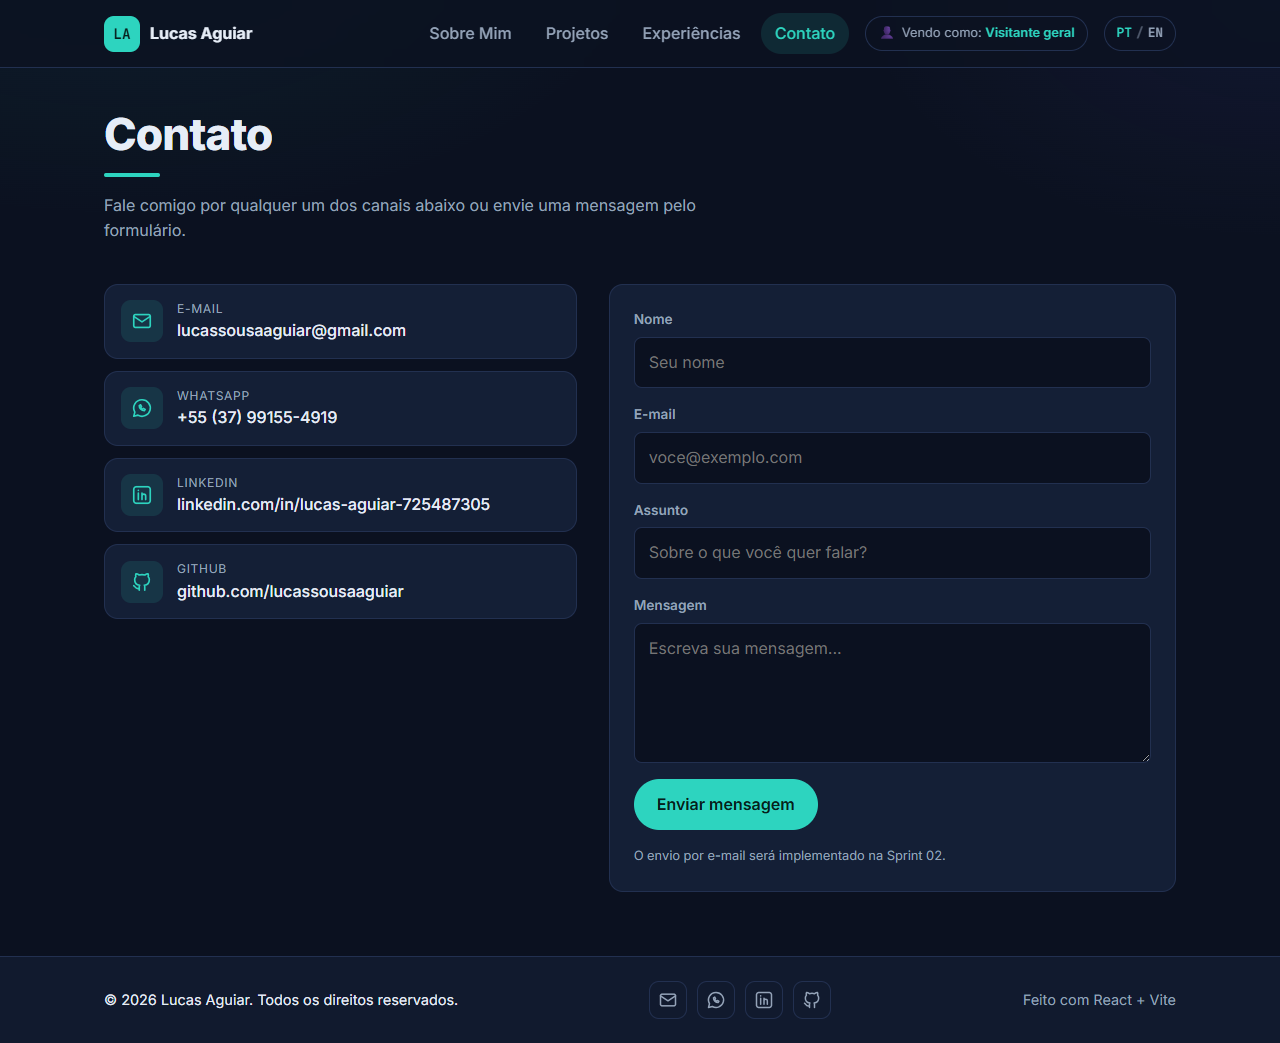
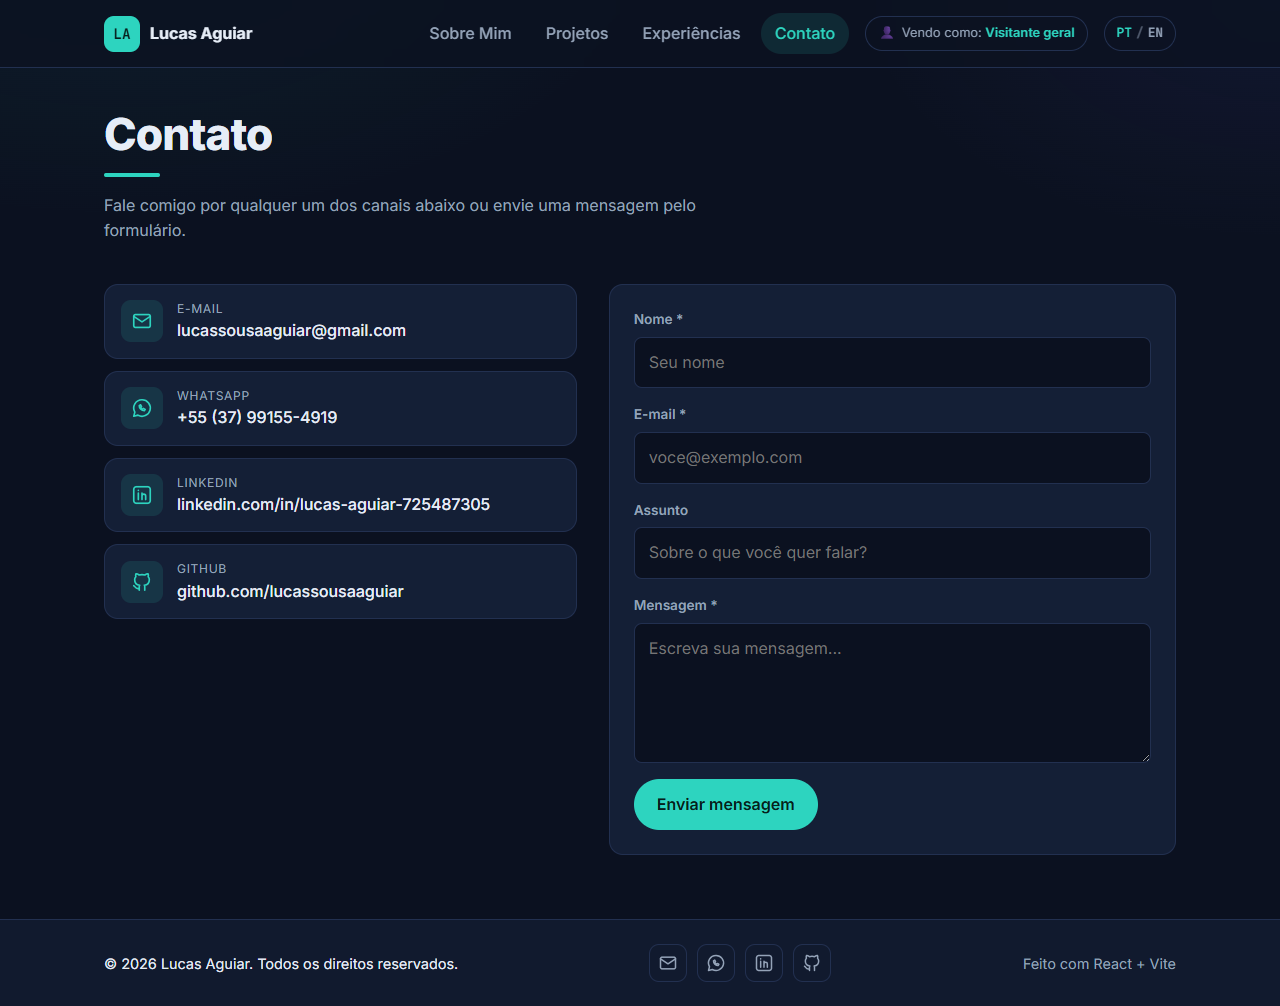
S02: formulário de contato funcional com Web3Forms
- Envio client-side (POST JSON) com estados de envio/sucesso/erro em PT/EN
- Validações: obrigatórios, e-mail válido, mensagem mínima; foco no 1º erro
- Honeypot anti-spam; chave em .env.local (fora do Git) com .env.example
- README: S02 concluída, instruções da variável VITE_WEB3FORMS_KEY

diff --git a/src/pages/Contact.tsx b/src/pages/Contact.tsx
@@ -1,4 +1,4 @@
-import type { FormEvent } from 'react'
+import { useState, type FormEvent } from 'react'
 import PageHeader from '../components/PageHeader'
 import { GitHubIcon, LinkedInIcon, MailIcon, WhatsAppIcon } from '../components/Icons'
 import { contacts } from '../data/contacts'
@@ -7,19 +7,88 @@ import { useProfile } from '../i18n/ProfileContext'
 
 const icons = { email: MailIcon, whatsapp: WhatsAppIcon, linkedin: LinkedInIcon, github: GitHubIcon }
 
+const WEB3FORMS_ENDPOINT = 'https://api.web3forms.com/submit'
+const ACCESS_KEY = import.meta.env.VITE_WEB3FORMS_KEY
+
+type Status = 'idle' | 'sending' | 'success' | 'error'
+type FieldErrors = { name?: string; email?: string; message?: string }
+
+const EMAIL_RE = /^[^\s@]+@[^\s@]+\.[^\s@]+$/
+
 export default function Contact() {
   const { t, lang } = useLanguage()
   const { profile } = useProfile()
+  const [status, setStatus] = useState<Status>('idle')
+  const [errors, setErrors] = useState<FieldErrors>({})
 
   // RF09 — canais reordenados por relevância para o perfil (todos continuam visíveis)
   const ordered = [...contacts].sort(
     (a, b) => profile.contactOrder.indexOf(a.id) - profile.contactOrder.indexOf(b.id),
   )
-  const subject = profile.contactSubject[lang]
+  const suggestedSubject = profile.contactSubject[lang]
 
-  // Sprint 02: integrar envio de e-mail (ex.: EmailJS / Formspree / função serverless).
-  const handleSubmit = (e: FormEvent<HTMLFormElement>) => {
+  const validate = (data: FormData): FieldErrors => {
+    const errs: FieldErrors = {}
+    const name = String(data.get('name') ?? '').trim()
+    const email = String(data.get('email') ?? '').trim()
+    const message = String(data.get('message') ?? '').trim()
+    if (!name) errs.name = t.contact.required
+    if (!email) errs.email = t.contact.required
+    else if (!EMAIL_RE.test(email)) errs.email = t.contact.emailInvalid
+    if (!message) errs.message = t.contact.required
+    else if (message.length < 10) errs.message = t.contact.messageMin
+    return errs
+  }
+
+  const clearError = (field: keyof FieldErrors) =>
+    setErrors((prev) => (prev[field] ? { ...prev, [field]: undefined } : prev))
+
+  const handleSubmit = async (e: FormEvent<HTMLFormElement>) => {
     e.preventDefault()
+    const form = e.currentTarget
+    const data = new FormData(form)
+
+    // Honeypot anti-spam: humanos não veem/preenchem este campo
+    if (data.get('botcheck')) return
+
+    const errs = validate(data)
+    setErrors(errs)
+    if (Object.keys(errs).length > 0) {
+      const first = ['name', 'email', 'message'].find((f) => errs[f as keyof FieldErrors])
+      if (first) (form.elements.namedItem(first) as HTMLElement | null)?.focus()
+      return
+    }
+
+    if (!ACCESS_KEY) {
+      console.warn('VITE_WEB3FORMS_KEY não configurada (.env.local)')
+      setStatus('error')
+      return
+    }
+
+    setStatus('sending')
+    try {
+      const res = await fetch(WEB3FORMS_ENDPOINT, {
+        method: 'POST',
+        headers: { 'Content-Type': 'application/json', Accept: 'application/json' },
+        body: JSON.stringify({
+          access_key: ACCESS_KEY,
+          from_name: 'Portfólio — Lucas Aguiar',
+          name: String(data.get('name')).trim(),
+          email: String(data.get('email')).trim(),
+          subject: String(data.get('subject') ?? '').trim() || 'Contato pelo portfólio',
+          message: String(data.get('message')).trim(),
+        }),
+      })
+      const json = await res.json()
+      if (res.ok && json.success) {
+        setStatus('success')
+        form.reset()
+      } else {
+        setStatus('error')
+      }
+    } catch {
+      setStatus('error')
+    }
   }
 
   return (
@@ -54,36 +123,90 @@ export default function Contact() {
           })}
         </div>
 
-        <form className="card form" onSubmit={handleSubmit} noValidate>
-          <div className="form__field">
-            <label htmlFor="name">{t.contact.name}</label>
-            <input id="name" name="name" type="text" placeholder={t.contact.namePlaceholder} required />
+        {status === 'success' ? (
+          <div className="card form-status" role="status">
+            <span className="form-status__icon" aria-hidden="true">
+              ✓
+            </span>
+            <h2 className="form-status__title">{t.contact.successTitle}</h2>
+            <p className="form-status__text">{t.contact.successText}</p>
+            <button type="button" className="btn btn--ghost" onClick={() => setStatus('idle')}>
+              {t.contact.sendAnother}
+            </button>
           </div>
-          <div className="form__field">
-            <label htmlFor="email">{t.contact.email}</label>
-            <input id="email" name="email" type="email" placeholder={t.contact.emailPlaceholder} required />
-          </div>
-          <div className="form__field">
-            <label htmlFor="subject">{t.profile.subject}</label>
-            {/* Decisão 5(a): assunto sugerido pelo perfil, editável. `key` reinicia o valor ao trocar perfil/idioma. */}
-            <input
-              key={`${profile.id}-${lang}`}
-              id="subject"
-              name="subject"
-              type="text"
-              defaultValue={subject}
-              placeholder={t.profile.subjectPlaceholder}
-            />
-          </div>
-          <div className="form__field">
-            <label htmlFor="message">{t.contact.message}</label>
-            <textarea id="message" name="message" placeholder={t.contact.messagePlaceholder} required />
-          </div>
-          <button type="submit" className="btn btn--primary" style={{ justifySelf: 'start' }}>
-            {t.contact.send}
-          </button>
-          <p className="form__note">{t.contact.note}</p>
-        </form>
+        ) : (
+          <form className="card form" onSubmit={handleSubmit} noValidate>
+            <input type="checkbox" name="botcheck" className="form__botcheck" tabIndex={-1} aria-hidden="true" />
+
+            <div className="form__field">
+              <label htmlFor="name">{t.contact.name} *</label>
+              <input
+                id="name"
+                name="name"
+                type="text"
+                placeholder={t.contact.namePlaceholder}
+                className={errors.name ? 'invalid' : ''}
+                aria-invalid={!!errors.name}
+                onInput={() => clearError('name')}
+              />
+              {errors.name && <p className="form__error">{errors.name}</p>}
+            </div>
+
+            <div className="form__field">
+              <label htmlFor="email">{t.contact.email} *</label>
+              <input
+                id="email"
+                name="email"
+                type="email"
+                placeholder={t.contact.emailPlaceholder}
+                className={errors.email ? 'invalid' : ''}
+                aria-invalid={!!errors.email}
+                onInput={() => clearError('email')}
+              />
+              {errors.email && <p className="form__error">{errors.email}</p>}
+            </div>
+
+            <div className="form__field">
+              <label htmlFor="subject">{t.profile.subject}</label>
+              {/* Decisão 5(a): assunto sugerido pelo perfil, editável. `key` reinicia o valor ao trocar perfil/idioma. */}
+              <input
+                key={`${profile.id}-${lang}`}
+                id="subject"
+                name="subject"
+                type="text"
+                defaultValue={suggestedSubject}
+                placeholder={t.profile.subjectPlaceholder}
+              />
+            </div>
+
+            <div className="form__field">
+              <label htmlFor="message">{t.contact.message} *</label>
+              <textarea
+                id="message"
+                name="message"
+                placeholder={t.contact.messagePlaceholder}
+                className={errors.message ? 'invalid' : ''}
+                aria-invalid={!!errors.message}
+                onInput={() => clearError('message')}
+              />
+              {errors.message && <p className="form__error">{errors.message}</p>}
+            </div>
+
+            <button
+              type="submit"
+              className="btn btn--primary"
+              style={{ justifySelf: 'start' }}
+              disabled={status === 'sending'}
+            >
+              {status === 'sending' ? t.contact.sending : t.contact.send}
+            </button>
+            {status === 'error' && (
+              <p className="form__error form__error--global" role="alert">
+                {t.contact.errorText}
+              </p>
+            )}
+          </form>
+        )}
       </div>
     </div>
   )

diff --git a/src/i18n/translations.ts b/src/i18n/translations.ts
@@ -59,7 +59,14 @@ export const translations = {
       namePlaceholder: 'Seu nome',
       emailPlaceholder: 'voce@exemplo.com',
       messagePlaceholder: 'Escreva sua mensagem...',
-      note: 'O envio por e-mail será implementado na Sprint 02.',
+      required: 'Campo obrigatório.',
+      emailInvalid: 'Informe um e-mail válido.',
+      messageMin: 'A mensagem deve ter pelo menos 10 caracteres.',
+      sending: 'Enviando...',
+      successTitle: 'Mensagem enviada!',
+      successText: 'Obrigado pelo contato — respondo em breve no e-mail informado.',
+      sendAnother: 'Enviar outra mensagem',
+      errorText: 'Não foi possível enviar agora. Tente de novo em instantes ou me chame direto pelo e-mail ao lado.',
     },
   },
   en: {
@@ -120,7 +127,14 @@ export const translations = {
       namePlaceholder: 'Your name',
       emailPlaceholder: 'you@example.com',
       messagePlaceholder: 'Write your message...',
-      note: 'E-mail sending will be implemented in Sprint 02.',
+      required: 'This field is required.',
+      emailInvalid: 'Enter a valid e-mail address.',
+      messageMin: 'The message must be at least 10 characters long.',
+      sending: 'Sending...',
+      successTitle: 'Message sent!',
+      successText: "Thanks for reaching out — I'll reply soon to the e-mail you provided.",
+      sendAnother: 'Send another message',
+      errorText: "Couldn't send right now. Try again in a moment or reach me directly via the e-mail on the side.",
     },
   },
 } as const

diff --git a/src/styles/global.css b/src/styles/global.css
@@ -1011,3 +1011,65 @@ h3 {
     text-align: center;
   }
 }
+
+/* ===== Formulário de contato: validação e status ===== */
+.form__botcheck {
+  display: none;
+}
+
+.form__field input.invalid,
+.form__field textarea.invalid {
+  border-color: var(--danger);
+}
+
+.form__field input.invalid:focus,
+.form__field textarea.invalid:focus {
+  border-color: var(--danger);
+  box-shadow: 0 0 0 3px rgba(248, 113, 113, 0.15);
+}
+
+.form__error {
+  margin: 0;
+  color: var(--danger);
+  font-size: 0.8rem;
+}
+
+.form__error--global {
+  font-size: 0.9rem;
+}
+
+.btn[disabled] {
+  opacity: 0.6;
+  cursor: default;
+  transform: none;
+}
+
+.form-status {
+  display: grid;
+  justify-items: center;
+  gap: 12px;
+  text-align: center;
+  padding: 48px 32px;
+}
+
+.form-status__icon {
+  display: grid;
+  place-items: center;
+  width: 56px;
+  height: 56px;
+  border-radius: 50%;
+  background: var(--accent);
+  color: #06201d;
+  font-size: 1.6rem;
+  font-weight: 700;
+}
+
+.form-status__title {
+  font-size: 1.4rem;
+}
+
+.form-status__text {
+  margin: 0;
+  color: var(--text-muted);
+  max-width: 40ch;
+}

diff --git a/src/vite-env.d.ts b/src/vite-env.d.ts
@@ -1,0 +1,10 @@
+/// <reference types="vite/client" />
+
+interface ImportMetaEnv {
+  /** Chave de acesso do Web3Forms (formulário de contato). Definida em .env.local */
+  readonly VITE_WEB3FORMS_KEY?: string
+}
+
+interface ImportMeta {
+  readonly env: ImportMetaEnv
+}

diff --git a/README.md b/README.md
@@ -49,12 +49,12 @@ Requisitos transversais: design responsivo, interface amigável, identidade visu
 - [x] Navegação entre as seções (React Router) e layout principal (cabeçalho, rodapé e área de conteúdo)
 - [x] README com imagens dos protótipos, descrição, tecnologias previstas e estrutura inicial
 
-### 🔄 Lab01S02 — Funcionalidades principais (em andamento)
-- [ ] Página "Sobre Mim" com versões PT/EN (base já implementada: troca de idioma global)
-- [ ] Página "Projetos" com timeline dinâmica (dados em `src/data/projects.ts`)
-- [ ] Página "Experiências" com dados organizados
-- [ ] Página "Contato" com ícones e formulário funcional (envio de e-mail)
-- [ ] Validações básicas e responsividade
+### ✅ Lab01S02 — Funcionalidades principais
+- [x] Página "Sobre Mim" com versões PT/EN (troca de idioma global, persistida no navegador)
+- [x] Página "Projetos" com timeline dinâmica (dados em `src/data/projects.ts`, ordenados por data)
+- [x] Página "Experiências" com dados organizados
+- [x] Página "Contato" com ícones e formulário funcional (envio de e-mail via Web3Forms)
+- [x] Validações básicas (obrigatórios, e-mail válido, tamanho mínimo, mensagens em PT/EN) e responsividade
 - **Nova tarefa — Perfis de acesso** (o visitante escolhe quem é — recrutador, professor, desenvolvedor — e o portfólio muda o *destaque* das informações, sem login e sem esconder conteúdo):
   - [x] Levantamento de requisitos e casos de uso → [`docs/requisitos/perfis-de-acesso.md`](docs/requisitos/perfis-de-acesso.md)
   - [x] Wireframe da página de seleção de perfil → [`docs/wireframes/profile-desktop.png`](docs/wireframes/profile-desktop.png)
@@ -79,7 +79,7 @@ Requisitos transversais: design responsivo, interface amigável, identidade visu
 | Perfis de acesso | Context API própria (`ProfileContext`) + dados declarativos | Destaques por perfil, persistidos em `localStorage`, sem back-end |
 | Fontes | Google Fonts (Inter, JetBrains Mono) | Identidade visual |
 | Lint | **oxlint** | Qualidade de código |
-| Envio de e-mail (previsto) | **EmailJS** ou **Formspree** | Formulário de contato sem back-end próprio |
+| Envio de e-mail | **Web3Forms** | Formulário de contato sem back-end próprio (POST client-side, honeypot anti-spam) |
 | Hospedagem (prevista) | **Vercel** | Deploy contínuo a partir do GitHub, com preview por branch |
 
 ## Dependências
@@ -208,9 +208,15 @@ cd portfolio
 # 2. Instalar as dependências
 npm install
 
-# 3. Rodar em modo de desenvolvimento (http://localhost:5173)
+# 3. Configurar o envio do formulário de contato (opcional para navegar)
+#    Copie .env.example para .env.local e informe sua chave do Web3Forms
+cp .env.example .env.local
+
+# 4. Rodar em modo de desenvolvimento (http://localhost:5173)
 npm run dev
 ```
+
+> Sem a variável `VITE_WEB3FORMS_KEY`, o site funciona normalmente — apenas o envio do formulário fica indisponível. No deploy (Vercel), a mesma variável é configurada no painel do projeto.
 
 Outros comandos:
 
@@ -228,4 +234,4 @@ npm run docs:pdf     # gera docs/requisitos/perfis-de-acesso.pdf a partir do mar
 - **Conteúdo separado do código** (`src/data/`): adicionar um projeto ou experiência é editar um objeto — a timeline ordena automaticamente pela data.
 - **i18n própria via Context**: o requisito é apenas PT/EN, então um contexto simples com dicionário tipado evita uma dependência extra; a escolha fica salva no navegador.
 - **CSS puro com design tokens**: tema escuro com acento turquesa (`--accent`), tipografia Inter + JetBrains Mono. Sem framework de CSS para manter o bundle pequeno e o controle total da identidade visual.
-- **Sem back-end próprio**: o envio do formulário será feito por um serviço de e-mail (EmailJS/Formspree), o que permite hospedagem 100% estática e gratuita na Vercel.
+- **Sem back-end próprio**: o envio do formulário é feito pelo **Web3Forms** direto do front-end (a access key é própria para uso client-side), com honeypot anti-spam — o que permite hospedagem 100% estática e gratuita na Vercel.
